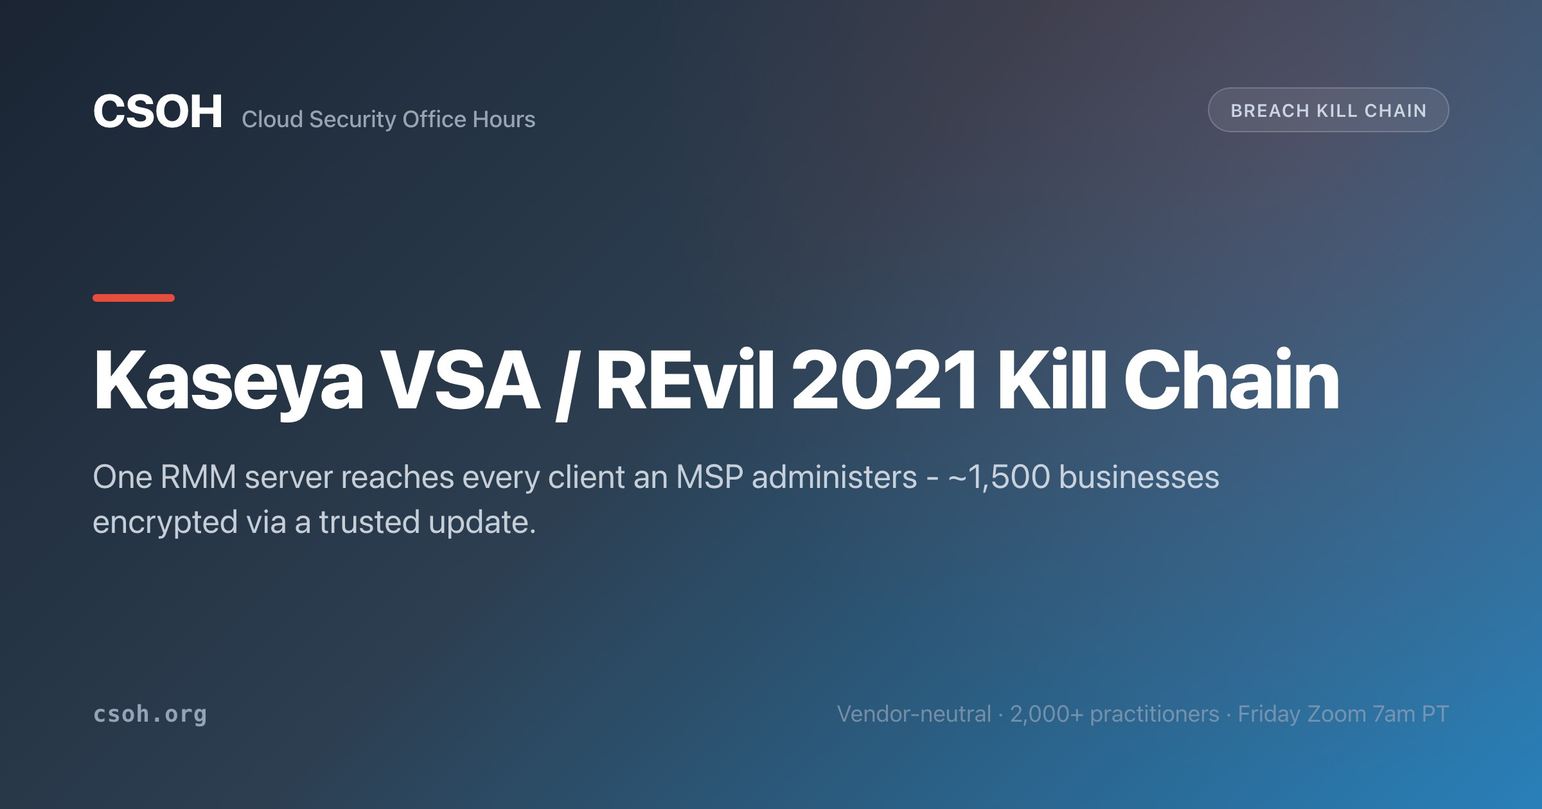
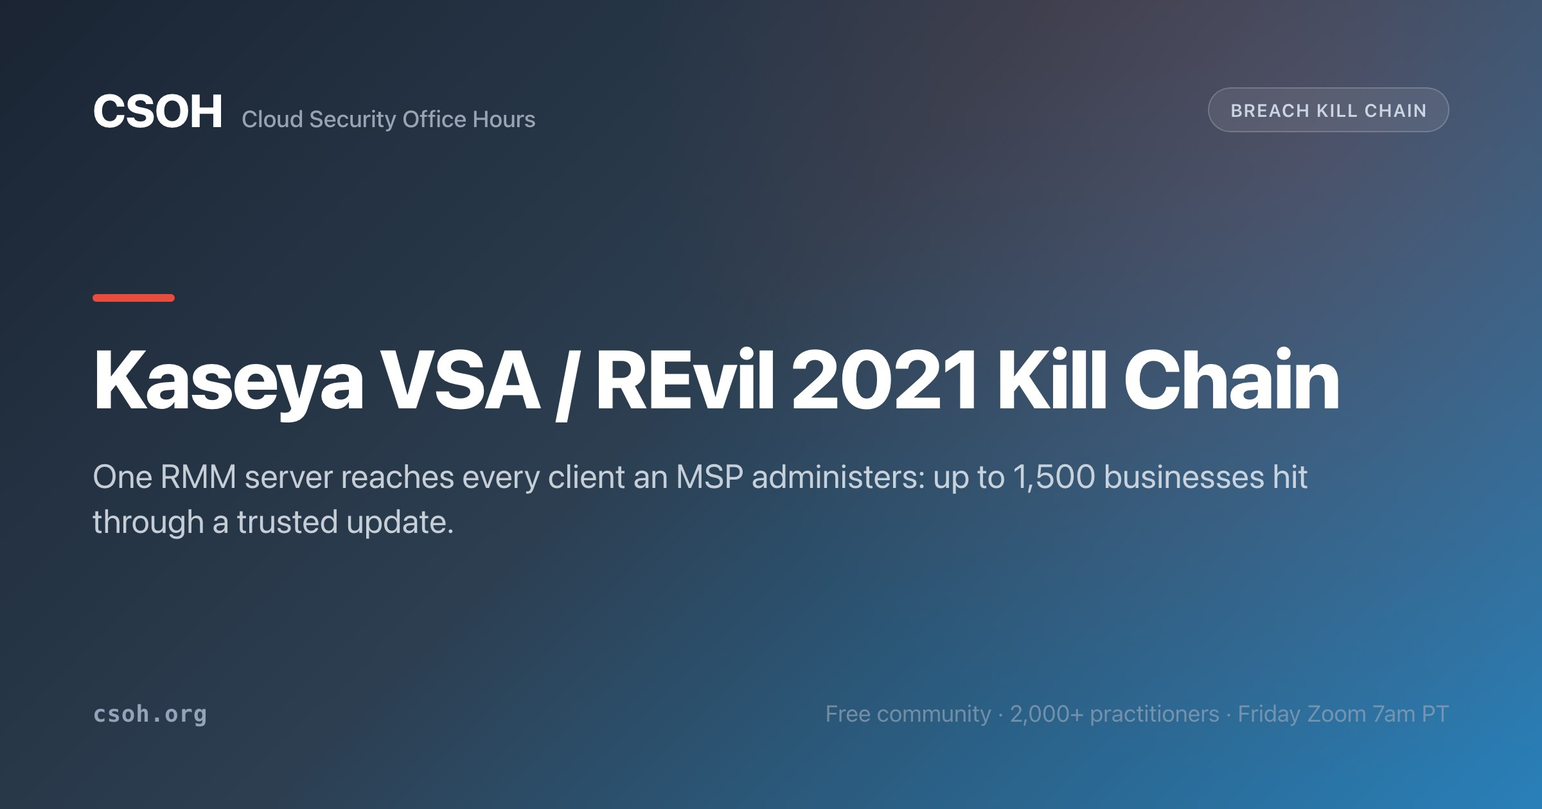
breaches: Kaseya counts and the DIVD report follow Kaseya and DIVD
Three corrections from the task 58 fact review, each checked against the
source:

- DIVD's report (summary, "Already reported" tile, stage 04 phase label,
  title and prose, compensating-controls defense): the page said DIVD had
  reported "the vulnerabilities" / "the flaws". DIVD's Kaseya VSA Limited
  Disclosure (7 July 2021): "one of the two vulnerabilities used in the
  attack was one we previously disclosed to Kasya VSA". Its Case Update 2
  (4 July 2021) names that one: "a number of the zero-day vulnerabilities
  [CVE-2021-30116] which are currently being used in the ransomware
  attacks". The page now says DIVD had reported one of the exploited
  flaws, CVE-2021-30116. "A patch was in development" is unchanged.
- Directly compromised (summary, tile, stage 03 title, prose and fact
  row): "around 50 to 60 MSPs" becomes Kaseya's count. Kaseya's incident
  update (5 July 2021, 1:00 PM and 9:30 PM EDT entries): "we are aware of
  fewer than 60 Kaseya customers, all of whom were using the VSA
  on-premises product, who were directly compromised by this attack.
  While many of these customers provide IT services to multiple other
  companies". No source the page cites gives a floor of 50.
- Downstream (meta and JSON-LD descriptions, headline and h2, JSON-LD
  Event, summary, tile, stage 03, stage 05): "roughly 1,500 ... encrypted"
  becomes fewer than 1,500 affected, per Kaseya's same entries: "the
  total impact thus far has been to fewer than 1,500 downstream
[…]

Changed region(s): [[0.0625, 0.619, 0.3438, 0.681], [0.5938, 0.5571, 0.8438, 0.619], [0.5312, 0.8667, 0.6562, 0.8976]]

diff --git a/breaches/kaseya-vsa-revil.html b/breaches/kaseya-vsa-revil.html
@@ -5,7 +5,7 @@
     <meta charset="UTF-8">
     <meta name="viewport" content="width=device-width, initial-scale=1.0">
     <meta name="robots" content="index, follow, max-snippet:-1, max-image-preview:large">
-    <meta name="description" content="REvil exploited zero-days in Kaseya VSA and used the product's own agent update mechanism to push ransomware through MSPs to roughly 1,500 downstream businesses.">
+    <meta name="description" content="REvil exploited zero-days in Kaseya VSA and used its agent update mechanism to push ransomware through MSPs to fewer than 1,500 downstream businesses, per Kaseya.">
     <meta name="author" content="Cloud Security Office Hours">
     <meta name="keywords" content="Kaseya VSA ransomware, REvil, CVE-2021-30116, breach analysis, kill chain, MITRE ATT&amp;CK, cloud security incident, post-mortem, 2021, MSP supply chain, RMM abuse, Coop Sweden, universal decryptor">
     <title>Kaseya VSA / REvil 2021 Kill Chain - CSOH</title>
@@ -24,7 +24,7 @@
     <meta property="og:locale" content="en_US">
     <meta property="og:type" content="article">
     <meta property="article:published_time" content="2026-04-30">
-    <meta property="article:modified_time" content="2026-09-27">
+    <meta property="article:modified_time" content="2026-11-22">
     <meta property="article:author" content="Cloud Security Office Hours">
     <meta property="article:section" content="Breach Kill Chains">
     <meta property="article:tag" content="Kaseya VSA ransomware">
@@ -63,8 +63,8 @@
 {
   "@context": "https://schema.org",
   "@type": "NewsArticle",
-  "headline": "Kaseya VSA / REvil - Authentication Bypass in an RMM Server → Ransomware Pushed as a Software Update → ~1,500 Businesses Encrypted Through Their IT Provider",
-  "description": "REvil exploited zero-days in Kaseya VSA and used the product's own agent update mechanism to push ransomware through MSPs to roughly 1,500 downstream businesses.",
+  "headline": "Kaseya VSA / REvil - Authentication Bypass in an RMM Server → Ransomware Pushed as a Software Update → Up to 1,500 Businesses Hit Through Their IT Provider",
+  "description": "REvil exploited zero-days in Kaseya VSA and used its agent update mechanism to push ransomware through MSPs to fewer than 1,500 downstream businesses, per Kaseya.",
   "author": {
     "@type": "Organization",
     "name": "Cloud Security Office Hours",
@@ -79,7 +79,7 @@
     }
   },
   "datePublished": "2026-04-30",
-  "dateModified": "2026-09-27",
+  "dateModified": "2026-11-22",
   "mainEntityOfPage": "https://csoh.org/breaches/kaseya-vsa-revil.html",
   "speakable": {
     "@type": "SpeakableSpecification",
@@ -94,7 +94,7 @@
     "@type": "Event",
     "name": "Kaseya VSA Supply-Chain Ransomware Attack",
     "startDate": "2021-07-02",
-    "description": "REvil affiliates exploited zero-day vulnerabilities including CVE-2021-30116 in on-premises Kaseya VSA servers and used the product's agent update mechanism to distribute ransomware through managed service providers to roughly 1,500 downstream businesses."
+    "description": "REvil affiliates exploited zero-day vulnerabilities including CVE-2021-30116 in on-premises Kaseya VSA servers and used the product's agent update mechanism to distribute ransomware through managed service providers; Kaseya put the total impact at fewer than 1,500 downstream businesses."
   },
   "mentions": [
     {
@@ -350,13 +350,13 @@
       <span class="sev-badge sev-critical">Critical</span>
       <span class="prov-tag prov-purple">MSP / RMM</span>
     </div>
-    <h2 class="inc-title">Kaseya VSA / REvil - Authentication Bypass in an RMM Server → Ransomware Pushed as a Software Update → ~1,500 Businesses Encrypted Through Their IT Provider</h2>
-    <p class="inc-summary">On July 2, 2021, timed for the US Independence Day weekend when staffing was thinnest, REvil affiliates exploited zero-day vulnerabilities in on-premises Kaseya VSA servers and used the product's own agent update mechanism to push ransomware downstream. Among the vulnerabilities was <a class="glossary-link" href="../glossary.html#term-cve">CVE</a>-2021-30116 (an authentication bypass and credential disclosure flaw). Kaseya VSA is remote monitoring and management software used by managed service providers to administer their clients' estates, so the encryptor arrived on victim machines as a trusted update from the company that manages their IT. Around 50 to 60 MSPs were compromised, and roughly 1,500 downstream businesses were encrypted. Sweden's Coop closed some 800 supermarkets because its point-of-sale system was administered by an affected provider. REvil demanded $70 million for a universal decryptor. <strong>The vulnerabilities were already known to Kaseya:</strong> the Dutch Institute for Vulnerability Disclosure had reported them and a patch was in development when the attack landed.</p>
+    <h2 class="inc-title">Kaseya VSA / REvil - Authentication Bypass in an RMM Server → Ransomware Pushed as a Software Update → Up to 1,500 Businesses Hit Through Their IT Provider</h2>
+    <p class="inc-summary">On July 2, 2021, timed for the US Independence Day weekend when staffing was thinnest, REvil affiliates exploited zero-day vulnerabilities in on-premises Kaseya VSA servers and used the product's own agent update mechanism to push ransomware downstream. Among the vulnerabilities was <a class="glossary-link" href="../glossary.html#term-cve">CVE</a>-2021-30116 (an authentication bypass and credential disclosure flaw). Kaseya VSA is remote monitoring and management software used by managed service providers to administer their clients' estates, so the encryptor arrived on victim machines as a trusted update from the company that manages their IT. Kaseya counted fewer than 60 of its customers directly compromised, many of them providers of IT services to other companies, and put the total impact at fewer than 1,500 downstream businesses. Sweden's Coop closed some 800 supermarkets because its point-of-sale system was administered by an affected provider. REvil demanded $70 million for a universal decryptor. <strong>One of the exploited flaws was already known to Kaseya:</strong> the Dutch Institute for Vulnerability Disclosure had reported CVE-2021-30116, and a patch was in development when the attack landed.</p>
     <div class="inc-stats">
-      <div class="inc-stat"><strong>~1,500 businesses</strong> encrypted via ~50-60 MSPs</div>
+      <div class="inc-stat"><strong>Fewer than 1,500</strong> downstream businesses affected, via fewer than 60 Kaseya customers (Kaseya's count)</div>
       <div class="inc-stat"><strong>800 Coop stores</strong> in Sweden closed - a downstream victim of a downstream victim</div>
       <div class="inc-stat"><strong>$70 million</strong> demanded for a universal decryptor</div>
-      <div class="inc-stat"><strong>Already reported:</strong> DIVD had disclosed the flaws; a patch was in progress</div>
+      <div class="inc-stat"><strong>Already reported:</strong> DIVD had disclosed one of the exploited flaws, CVE-2021-30116; a patch was in progress</div>
     </div>
     <a class="pm-link" href="https://www.cisa.gov/news-events/alerts/2021/07/02/kaseya-vsa-supply-chain-ransomware-attack" target="_blank" rel="noopener">📄 CISA - Kaseya VSA supply-chain ransomware attack ↗</a>
     <a class="pm-link" href="https://www.tenable.com/blog/cve-2021-30116-multiple-zero-day-vulnerabilities-in-kaseya-vsa-exploited-to-distribute-ransomware" target="_blank" rel="noopener">📄 Tenable - CVE-2021-30116 analysis ↗</a>
@@ -411,14 +411,14 @@
       <div class="step-num">03</div>
       <div class="step-body">
         <div class="step-hdr">
-          <div class="step-title">Roughly 50 to 60 MSPs were compromised, encrypting about 1,500 downstream businesses - and Coop Sweden closed around 800 supermarkets it could not operate</div>
+          <div class="step-title">Kaseya counted fewer than 60 customers directly compromised, many of them MSPs, and fewer than 1,500 downstream businesses affected; Coop Sweden closed around 800 supermarkets it could not operate</div>
           <a class="mt mt-ef" href="https://attack.mitre.org/techniques/T1486/" target="_blank" rel="noopener">T1486 - Data Encrypted for Impact</a>
         </div>
-        <p class="step-desc">The amplification is the whole point of targeting an MSP. Compromising one VSA server reaches every client that provider administers, so 50 to 60 compromises produced roughly 1,500 encrypted businesses. That is a leverage ratio no direct campaign achieves. </p>
+        <p class="step-desc">The amplification is the whole point of targeting an MSP. Compromising one VSA server reaches every client that provider administers: Kaseya counted fewer than 60 customers directly compromised and put the total impact at fewer than 1,500 downstream businesses. That is a leverage ratio no direct campaign achieves. </p>
         <p class="step-desc">Coop Sweden is the clearest illustration of how far the blast travels: the grocery chain had no relationship with Kaseya at all, but its point-of-sale system was administered by an affected provider, and around 800 stores could not take payment and closed. Small businesses were hit hardest, because the entire reason they use an MSP is that they have no internal IT capability, so the compromise arrived through their only source of help, and removed it at the same moment.</p>
         <div class="step-code">
-          <span class="hl">Directly compromised:</span> ~50-60 managed service providers<br>
-          <span class="hl">Encrypted downstream:</span> ~1,500 businesses<br>
+          <span class="hl">Directly compromised:</span> Fewer than 60 Kaseya customers, many of them managed service providers (Kaseya's count)<br>
+          <span class="hl">Affected downstream:</span> Fewer than 1,500 businesses (Kaseya's count)<br>
           <span class="hl">Third-order victim:</span> Coop Sweden, ~800 stores closed - no relationship with Kaseya<br>
           <span class="hl">Leverage:</span> One management server reaches every client that provider administers<br>
           <span class="hl">Worst affected:</span> Small businesses whose only IT capability was the compromised provider
@@ -427,14 +427,14 @@
       </div>
     </div>
 
-    <div class="phase-lbl ph-disco">⏳ The Uncomfortable Detail: The Flaws Were Already Reported</div>
+    <div class="phase-lbl ph-disco">⏳ The Uncomfortable Detail: One Flaw Was Already Reported</div>
     <div class="kc-step step-p">
       <div class="step-num">04</div>
       <div class="step-body">
         <div class="step-hdr">
-          <div class="step-title">The Dutch Institute for Vulnerability Disclosure had responsibly disclosed the vulnerabilities to Kaseya, and a patch was in development when the attack landed</div>
+          <div class="step-title">The Dutch Institute for Vulnerability Disclosure had responsibly disclosed one of the exploited flaws, CVE-2021-30116, to Kaseya, and a patch was in development when the attack landed</div>
         </div>
-        <p class="step-desc">This is not a case of a defender who could not have known. DIVD researchers had found and reported the flaws, Kaseya was working on fixes, and the attack arrived inside the remediation window. </p>
+        <p class="step-desc">This is not a case of a defender who could not have known. DIVD researchers had found and reported one of the flaws the attackers used, Kaseya was working on fixes, and the attack arrived inside the remediation window. </p>
         <p class="step-desc">That is a genuinely hard problem rather than a simple failure. Disclosure timelines exist precisely because patches take time to build and test, and there is no version of this where the vendor moves instantly. But it does make one thing concrete for defenders: the gap between "reported" and "patched everywhere" is a period of real exposure for internet-facing management software, and the mitigation available during it is compensating controls (taking the console off the public internet, restricting source addresses, monitoring it closely) rather than waiting.</p>
         <div class="step-code">
           <span class="hl">Reported by:</span> The Dutch Institute for Vulnerability Disclosure (DIVD)<br>
@@ -455,7 +455,7 @@
           <div class="step-title">REvil demanded $70 million for a universal decryptor; the key ultimately reached victims through law enforcement, and Kaseya distributed a decryptor later that month</div>
           <a class="mt mt-ef" href="https://attack.mitre.org/techniques/T1657/" target="_blank" rel="noopener">T1657 - Financial Theft</a>
         </div>
-        <p class="step-desc">The $70 million universal-decryptor demand was a pricing decision as much as an extortion one: at that scale, negotiating individually with 1,500 businesses is operationally impossible, so the crew offered a single transaction instead. It was not paid. </p>
+        <p class="step-desc">The $70 million universal-decryptor demand was a pricing decision as much as an extortion one: at that scale, negotiating individually with up to 1,500 businesses is operationally impossible, so the crew offered a single transaction instead. It was not paid. </p>
         <p class="step-desc">The FBI obtained the decryption key, and Kaseya was able to distribute a universal decryptor to affected customers later in July, though the FBI's decision to hold the key for a period while pursuing the actors, rather than releasing it immediately, drew sustained criticism from victims still down. REvil's infrastructure went offline days after the attack and the group was subsequently disrupted. </p>
         <p class="step-desc">For most victims none of that mattered in the moment: recovery depended on their own backups, and the businesses that recovered fastest were the ones that had tested restoring from them.</p>
         <div class="step-code">
@@ -477,7 +477,7 @@
         <div class="def-item"><strong>Limit what the management agent can do, and monitor it as an attack path.</strong> An RMM agent running as SYSTEM everywhere is a pre-installed backdoor if the server falls. Scope agent privileges where the product allows, alert on mass script deployment and unusual out-of-hours deployment jobs, and specifically watch for endpoint-protection tampering initiated by the management agent - that combination is close to definitive.</div>
         <div class="def-item"><strong>Keep immutable, offline backups and rehearse the restore.</strong> Recovery time here was determined almost entirely by backup quality, and the universal decryptor arrived weeks later for those still waiting. Follow 3-2-1 with at least one immutable or air-gapped copy, ensure backup infrastructure is not administered by the same RMM that could be compromised, and time an actual restore rather than assuming. See <a href="../backup-dr.html">backup and DR</a>.</div>
         <div class="def-item"><strong>Plan for holiday and weekend timing explicitly.</strong> The attack was launched into the Independence Day weekend on purpose, and that choice is now standard. Ensure on-call coverage over long weekends, pre-authorize the emergency actions responders will need - isolating a management server, disabling agent deployment - so nobody is hunting for approval on a public holiday, and rehearse it at least once.</div>
-        <div class="def-item"><strong>Have compensating controls ready for the disclosure-to-patch window.</strong> The flaws were reported and a patch was in progress when the attack landed, so patching promptly would not have helped. What does help is reducing exposure of management software in advance, subscribing to vendor and <a class="glossary-link" href="../glossary.html#term-cisa">CISA</a> advisories for the products in your critical path, and being able to take a console off the internet within the hour when something is announced.</div>
+        <div class="def-item"><strong>Have compensating controls ready for the disclosure-to-patch window.</strong> One of the exploited flaws had been reported and a patch was in progress when the attack landed, so patching promptly would not have helped. What does help is reducing exposure of management software in advance, subscribing to vendor and <a class="glossary-link" href="../glossary.html#term-cisa">CISA</a> advisories for the products in your critical path, and being able to take a console off the internet within the hour when something is announced.</div>
       </div>
     </div>
 

diff --git a/breach-lessons.html b/breach-lessons.html
@@ -382,7 +382,7 @@
 <li><a href="breaches/codecov-bash-uploader.html">Codecov Bash Uploader (2021)</a>: a credential recoverable from a Docker image layer let an attacker add one line to a script thousands of pipelines execute on every build, draining <a class="glossary-link" href="glossary.html#term-ci-cd">CI</a> secrets for two months.</li>
 <li><a href="breaches/chaosdb-cosmos.html">ChaosDB / Azure Cosmos DB (2021)</a>: researchers escaped a Cosmos DB notebook container and retrieved other customers' primary keys. <a class="glossary-link" href="glossary.html#term-tenant">Tenant</a> isolation is the one boundary a customer cannot audit or compensate for.</li>
 <li><a href="breaches/log4shell.html">Log4Shell (2021)</a>: not a breach. The moment <a class="glossary-link" href="glossary.html#term-vulnerability-management">vulnerability management</a> stopped being about patching known assets, because most organizations could not answer whether they were even affected.</li>
-<li><a href="breaches/kaseya-vsa-revil.html">Kaseya VSA / REvil (2021)</a>: zero-days in an internet-facing RMM server let REvil push ransomware down the agent update channel, encrypting ~1,500 businesses through ~50-60 managed service providers.</li>
+<li><a href="breaches/kaseya-vsa-revil.html">Kaseya VSA / REvil (2021)</a>: zero-days in an internet-facing RMM server let REvil push ransomware down the agent update channel to fewer than 1,500 downstream businesses, through fewer than 60 directly compromised Kaseya customers, many of them managed service providers (Kaseya's count).</li>
 <li><a href="breaches/okta-lapsus-sitel.html">Okta / LAPSUS$ (2022)</a>: a subcontractor's support engineer, five days of access, and two months before customers were told, and only then because the attackers posted screenshots.</li>
 <li><a href="breaches/0ktapus-twilio.html">0ktapus / Twilio (2022)</a>: 130+ organizations phished by SMS with live one-time codes relayed in real time. Cloudflare received the same phish and lost nothing, because <a class="glossary-link" href="glossary.html#term-fido2">FIDO2</a> keys cannot be relayed.</li>
 <li><a href="breaches/uber.html">Uber (2022)</a>: dark-web credentials plus <a class="glossary-link" href="glossary.html#term-mfa">MFA</a> push fatigue got a contractor's account, then a hardcoded <a class="glossary-link" href="glossary.html#term-pam">PAM</a> secret unlocked full AWS and GCP admin.</li>

diff --git a/cloud-breach-year-in-review-2021-2022.html b/cloud-breach-year-in-review-2021-2022.html
@@ -366,7 +366,7 @@
 <h2>Theme 2: The build pipeline and the management plane</h2>
 <p>Two 2021 incidents established target classes that recur in every subsequent year.</p>
 <p><a href="breaches/codecov-bash-uploader.html">Codecov</a> is the ancestor of the modern <a class="glossary-link" href="glossary.html#term-ci-cd">CI</a> <a class="glossary-link" href="glossary.html#term-supply-chain">supply-chain attack</a>. A credential recoverable from a Docker image layer gave write access to the Bash Uploader (a script tens of thousands of pipelines download and execute on every build), and the payload was a single added line exporting the CI environment to an attacker server. It ran undetected for two months and ended only because one customer compared the downloaded file's SHA-256 against the published value. HashiCorp had to rotate the GPG key used to sign its product releases, which is to say a CI-tool compromise reached another vendor's release-signing key.</p>
-<p><a href="breaches/kaseya-vsa-revil.html">Kaseya</a> established the management plane. REvil exploited zero-days in internet-facing VSA servers and used the product's own agent update mechanism to push ransomware, so the encryptor arrived on victim machines as a trusted update from the company managing their IT. Roughly 50 to 60 managed service providers produced about 1,500 encrypted businesses, and Coop Sweden closed around 800 stores despite having no relationship with Kaseya at all. Timed for the July 4 weekend, deliberately.</p>
+<p><a href="breaches/kaseya-vsa-revil.html">Kaseya</a> established the management plane. REvil exploited zero-days in internet-facing VSA servers and used the product's own agent update mechanism to push ransomware, so the encryptor arrived on victim machines as a trusted update from the company managing their IT. Kaseya counted fewer than 60 customers directly compromised, many of them managed service providers, and fewer than 1,500 downstream businesses affected. Coop Sweden closed around 800 stores despite having no relationship with Kaseya at all. Timed for the July 4 weekend, deliberately.</p>
 </section>
 
 <section id="isolation">

diff --git a/breach-timeline.html b/breach-timeline.html
@@ -423,7 +423,7 @@
       "@type": "ListItem",
       "position": 55,
       "url": "https://csoh.org/breaches/kaseya-vsa-revil.html",
-      "name": "Kaseya VSA / REvil - Authentication Bypass in an RMM Server → Ransomware Pushed as a Software Update → ~1,500 Businesses Encrypted"
+      "name": "Kaseya VSA / REvil - Authentication Bypass in an RMM Server → Ransomware Pushed as a Software Update → Up to 1,500 Businesses Hit"
     },
     {
       "@type": "ListItem",
@@ -1417,8 +1417,8 @@
                     <span class="sev-badge sev-critical">Critical</span>
                     <span class="prov-tag prov-purple">MSP / RMM</span>
                 </div>
-                <h2 class="breach-card-title">Kaseya VSA / REvil - Authentication Bypass in an RMM Server → Ransomware Pushed as a Software Update → ~1,500 Businesses Encrypted</h2>
-                <p class="breach-card-summary">Launched into the July 4 weekend. One compromised management server reaches every client an MSP administers, so ~50-60 MSPs produced ~1,500 encrypted businesses. Coop Sweden, a company with no relationship to Kaseya at all, closed 800 stores it could not run. The flaws had already been reported…</p>
+                <h2 class="breach-card-title">Kaseya VSA / REvil - Authentication Bypass in an RMM Server → Ransomware Pushed as a Software Update → Up to 1,500 Businesses Hit</h2>
+                <p class="breach-card-summary">Launched into the July 4 weekend. One compromised management server reaches every client an MSP administers: Kaseya counted fewer than 60 customers directly compromised, many of them MSPs, and fewer than 1,500 downstream businesses affected. Coop Sweden, a company with no relationship to Kaseya at all, closed 800 stores it could not run. One of the flaws had already been reported…</p>
                 <span class="breach-card-cta">Read kill chain →</span>
             </a>
         </li>

diff --git a/threat-research.html b/threat-research.html
@@ -1379,7 +1379,7 @@
                         <picture><source srcset="img/previews/cisa-gov-news-events-alerts-2021-07-02-kaseya-vsa-supply-chain-ransomware-attack.webp" type="image/webp"><img src="img/previews/cisa-gov-news-events-alerts-2021-07-02-kaseya-vsa-supply-chain-ransomware-attack.jpg" alt="Kaseya VSA / REvil (2021) preview" class="resource-preview" loading="lazy" decoding="async"></picture>
                         <h3>Kaseya VSA / REvil (2021)</h3>
                         <p>REvil exploited an authentication-bypass zero-day in Kaseya VSA to push ransomware to
-                            ~1,500 downstream MSP customers in a single weekend. CISA alert.</p>
+                            MSPs' customers in a single weekend; Kaseya put the impact at fewer than 1,500 downstream businesses. CISA alert.</p>
                         <div class="resource-tags">
                             <span class="tag">MSP</span>
                             <span class="tag">Ransomware</span>

diff --git a/tools/generate_og_images.py b/tools/generate_og_images.py
@@ -556,7 +556,7 @@ PAGES = [
      "Breach Kill Chain"),
     ("breaches/kaseya-vsa-revil.html",
      "Kaseya VSA / REvil 2021 Kill Chain",
-     "One RMM server reaches every client an MSP administers - ~1,500 businesses encrypted via a trusted update.",
+     "One RMM server reaches every client an MSP administers: up to 1,500 businesses hit through a trusted update.",
      "Breach Kill Chain"),
     ("breaches/event-stream-npm.html",
      "event-stream npm 2018 Kill Chain",
